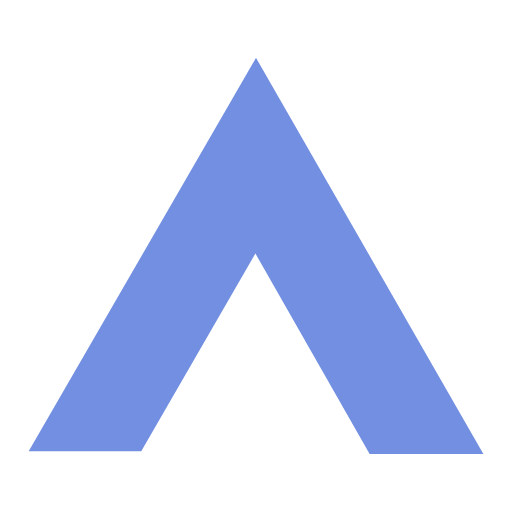
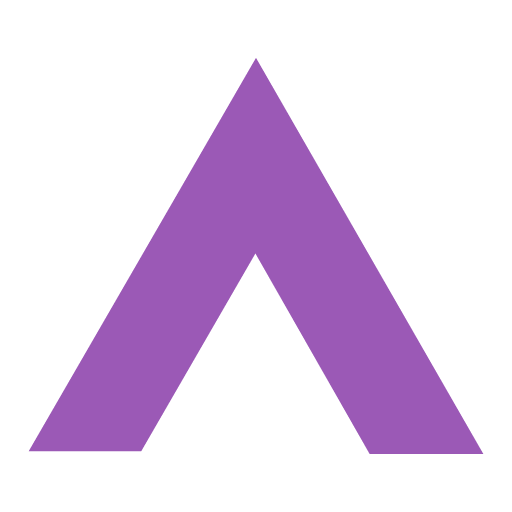
Color change

Changed region(s): [[0.0625, 0.125, 0.9375, 0.9062]]

diff --git a/app/page/start.htm b/app/page/start.htm
@@ -3,27 +3,17 @@
     <div class="page" style="overflow-x: hidden;">
         <div class="navbar" id="navbar">
             <input type="file" id="avatarpick" hidden onchange="getTumb()" accept="image/*">
-            <div class="chip big" id="userchip">
+            <div class="chip" id="userchip">
+                <div class="username" id="username">Nombre del profe</div>
                 <div class="img" id="userchipimg"></div>
-                <div class="username" id="username"></div>
                 <div class="status" id="userstatus"></div>
                 <div class="rippleJS"></div>
             </div>
-            <button id="inspwa" style="float: right;" onclick="openPg('settings');"><svg style="width: 24px;"
-                    viewBox="0 0 24 24">
-                    <path
-                        d="M12,15.5A3.5,3.5 0 0,1 8.5,12A3.5,3.5 0 0,1 12,8.5A3.5,3.5 0 0,1 15.5,12A3.5,3.5 0 0,1 12,15.5M19.43,12.97C19.47,12.65 19.5,12.33 19.5,12C19.5,11.67 19.47,11.34 19.43,11L21.54,9.37C21.73,9.22 21.78,8.95 21.66,8.73L19.66,5.27C19.54,5.05 19.27,4.96 19.05,5.05L16.56,6.05C16.04,5.66 15.5,5.32 14.87,5.07L14.5,2.42C14.46,2.18 14.25,2 14,2H10C9.75,2 9.54,2.18 9.5,2.42L9.13,5.07C8.5,5.32 7.96,5.66 7.44,6.05L4.95,5.05C4.73,4.96 4.46,5.05 4.34,5.27L2.34,8.73C2.21,8.95 2.27,9.22 2.46,9.37L4.57,11C4.53,11.34 4.5,11.67 4.5,12C4.5,12.33 4.53,12.65 4.57,12.97L2.46,14.63C2.27,14.78 2.21,15.05 2.34,15.27L4.34,18.73C4.46,18.95 4.73,19.03 4.95,18.95L7.44,17.94C7.96,18.34 8.5,18.68 9.13,18.93L9.5,21.58C9.54,21.82 9.75,22 10,22H14C14.25,22 14.46,21.82 14.5,21.58L14.87,18.93C15.5,18.67 16.04,18.34 16.56,17.94L19.05,18.95C19.27,19.03 19.54,18.95 19.66,18.73L21.66,15.27C21.78,15.05 21.73,14.78 21.54,14.63L19.43,12.97Z" />
-                </svg>
-                <div class="rippleJS"></div>
-            </button>
+           
         </div>
 
-        <div class="circle"></div>
-
         <div class="comentariom" id="comentme"></div>
-        <button class="btnmarcar">
-            MARCAR<div class="rippleJS"></div>
-        </button>
+      
         <div class="card" id="installpwa" style="margin-top: 24px; margin-bottom: -10px;height: 80px; display:none">
             <p class="tit-sub">Qué esperas para <br> <span class="high">instalar la app?</span> </p>
             <button onclick="installapp()" class="round" style="right: 16px;top:calc(50% - 20px);">Instalar<div
@@ -32,23 +22,19 @@
 
         <div class="card menu" style="margin-top: 24px;">
             <ul class="menu_principal">
-                <li onclick="openPg('reporte-me');">Reporte</li>
+                <li onclick="openPg('aula-display');">Mis aulas</li>
                 <hr>
-                <li onclick="openPg('task-list');">Proyectos </li>
+                <li onclick="openPg('alm-display');">Alumnos</li>
                 <hr>
-                <li onclick="openPg('news-list');">Notificaciones </li>
+                <li onclick="openPg('inst-display');">Instituciones</li>
                 <hr>
-                <li onclick="openPg('user-list');">Usuarios </li>
+                <li onclick="openPg('stats-one');">Estadisticas</li>
                 <hr>
-                <li onclick="openPg('horario-list');">Horarios</li>
+                <li onclick="openPg('settings');">Configuraciones</li>
+                <hr>
+                <li onclick="openPg('settings-about');">Acerca de..</li>
             </ul>
         </div>
-
-        <div class="footer">Created with ❤ by Nahuel</div>
-        <br><br><br><br><br>
-        Noticias..
-        <br><br><br><br><br>
-        <br><br><br><br><br>
         
     </div>
 </div>
@@ -91,19 +77,18 @@
         }
     }
 
-    // EVENTS //
+    // EVENTOS //
 
     $('.btnmarcar').on('click', async (e) => {
 
-        n = d.getTime().toString();
-        app.notif(n.slice(n.length - 6))
+
 
         /*
                 navigator.serviceWorker.ready.then(function (registration) {
-                    registration.showNotification('Meraki', {
-                        body: 'tu numero es ' + n.slice(n.length - 6),
-                        // image: './lib/img/bg/bg-1.jpg',
-                        icon: './lib/img/Recurso512.png',
+                    registration.showNotification('AULA', {
+                        body: 'notificacion',
+                        // image: './lib/img/sssss',
+                        icon: './lib/img/ssssss',
                         badge: './'
                     });
                 });*/
@@ -161,5 +146,5 @@
                 }
             });
     }
-
+//http://127.0.0.1:5501/app/index.html?cGFnZS9zdGFydC5odG0=
 </script>

diff --git a/app/style.css b/app/style.css
@@ -3,12 +3,12 @@ html {
     --color-n: #ebebeb;
     --contrast-n: #333333;
     --back-n: #3b3b3b;
-    --color-pri-n: #728FE1;
+    --color-pri-n: #9B59B6;
 }
 
 .color-day {
-    --color-pri-dark: #728FE1;
-    --color-pri: #728FE1;
+    --color-pri-dark: #9B59B6;
+    --color-pri: #9B59B6;
     --color: #343434;
     --gray: #595959;
     --contrast: #fff;
@@ -79,7 +79,8 @@ body {
     border-radius: 8px;
     top: 5%;
     margin-bottom: 16px;
-    border: solid 1px #00000040;
+    border: solid 1px #0000000a;
+    filter: drop-shadow(0px 3px 6px rgba(0, 0, 0, 0.20));
 }
 
 .content {
@@ -93,8 +94,8 @@ body {
 .page .card.menu {
     height: auto;
     padding: 18px 0 18px 0;
-    filter: none !important;
-    border: solid 1px #00000040;
+    border: solid 1px #0000001a;
+    filter: drop-shadow(0px 3px 6px rgba(0, 0, 0, 0.116));
 } 
 
 .page .card.menu.grande {
@@ -116,7 +117,7 @@ body {
     height: 56px;
     z-index: 2;
     box-shadow: none;
-    background-color: var(--color-pri, var(--color-pri-n));
+    background-color: var(--back, var(--back-n));
     transition: var(--transition);
     transition: height 150ms, background-color 0ms;
 }
@@ -130,7 +131,7 @@ body {
     top: 15px;
     left: 56px;
     transform: none;
-    color: #fff;
+    color: var(--color-pri-n);
     text-align: left;
     font-weight: 100;
     font-size: 20px;
@@ -166,26 +167,13 @@ body {
     padding: 8px;
     border-radius: 50px;
     padding-top: 8px;
-    fill: #fff;
-    color: #fff;
+    fill: var(--color-pri-n);
+    color: var(--color-pri-n);
     outline: none;
     margin: 6px 0 0 8px;
     z-index: -1;
 }
 
-.circle {
-    position: absolute;
-    top: -85px;
-    left: 50%;
-    transform: translate(-50%, 0);
-    height: 287px;
-    width: 116%;
-    background-color: var(--color-pri, var(--color-pri-n));
-    border-radius: 50%;
-    z-index: 0;
-}
-
-/*LOGIN PAGE*/
 
 /* USER INFO CHIP */
 
@@ -196,32 +184,27 @@ body {
     min-width: 44px;
     border-radius: 22px;
     top: 6px;
-    left: 8px;
+    right: 20px;
     transition: var(--transition);
     overflow: hidden;
     user-select: none;
     font-weight: 100;
     transform: none;
-    color: #fff;
-}
-
-.navbar .chip.big {
-    transform: scale(1.2) translate(40px, 40px) !important;
+    color: var(--color);
+    background-color:var(--back);
+    filter: drop-shadow(0px 3px 3px rgba(0, 0, 0, 0.062));
 }
 
 .navbar .chip .username {
     position: relative;
     text-align: center;
-    margin-left: 48px;
-    margin-top: -27px;
-    margin-right: 12px;
-    font-size: 14px;
+    margin-left: 12px;
+    margin-top: 13px;
+    margin-right: 48px;
+    font-size: 16px;
     transition: var(--transition);
 }
 
-.navbar .chip.big .username {
-    transform: translate(0, -6px);
-}
 
 .navbar .chip .status {
     position: relative;
@@ -232,19 +215,18 @@ body {
     opacity: 0;
 }
 
-.navbar .chip.big .status {
-    opacity: 1;
-}
 
 .navbar .chip .img {
     background-color: rgba(0, 0, 0, 0.20);
     background-size: cover;
     background-position: center;
-    width: 40px;
-    height: 40px;
+    width: 38px;
+    height: 38px;
     border-radius: 50%;
-    margin-top: 2px;
-    margin-left: 2px;
+    position: absolute;
+    right: 3px;
+    top: 3px;
+    
 }
 
 /*CONTROLS*/
@@ -583,7 +565,7 @@ position: relative;
 }
 
 .menu_principal hr{
-    border: #7e7e7e44 0.5px solid;
+    border: #7e7e7e25 0.5px solid;
     margin: 10px 20px 10px 20px;
 }
 

diff --git a/app/page/aula-display.htm b/app/page/aula-display.htm
@@ -1,0 +1,44 @@
+<div class="page">
+    <div class="navbar big">
+        <button class="backbtn" style="float: left;" onclick="history.back();window.navigator.vibrate(50)"><svg
+                style="width: 24px;" viewBox="0 0 24 24">
+                <path d="M20,11V13H8L13.5,18.5L12.08,19.92L4.16,12L12.08,4.08L13.5,5.5L8,11H20Z" />
+            </svg>
+            <div class="rippleJS"></div>
+        </button>
+        <div class="title">Opciones</div>
+    </div>
+    <div class="card menu grande">
+        <ul class="ulmenuop">
+            <li onclick="installapp()" id="liAppInst" style="display: none;"> <div class="rippleJS"></div>Instalar App</li>
+            <li onclick="openPg('settings-theme');">
+                <div class="rippleJS"></div>Diseño
+            </li>
+            <li onclick="openPg('settings-sync');">
+                <div class="rippleJS"></div>Mis datos
+            </li>
+            <li onclick="openPg('settings-tickets');">
+                <div class="rippleJS"></div>Notificaciones
+            </li>
+            <li onclick="window.navigator.vibrate(50);app.login.out()">
+                <div class="rippleJS"></div>Cerrar sesión
+            </li>
+        </ul>
+    </div>
+    <script>
+        $(() => {
+            if (installable) {
+                $('#liAppInst')[0].style.display = 'block';
+            }
+
+            var thisPage = $('#settings');
+            thisPage[0].onscroll = () => {
+                if (thisPage[0].scrollTop <= 45) {
+                    thisPage.find('.navbar').addClass("big");
+                } else {
+                    thisPage.find('.navbar').removeClass("big");
+                }
+            };
+        })
+    </script>
+</div>

diff --git a/app/page/settings.htm b/app/page/settings.htm
@@ -11,17 +11,14 @@
     <div class="card menu grande">
         <ul class="ulmenuop">
             <li onclick="installapp()" id="liAppInst" style="display: none;"> <div class="rippleJS"></div>Instalar App</li>
-            <li onclick="openPg('settings-diseno');">
+            <li onclick="openPg('settings-theme');">
                 <div class="rippleJS"></div>Diseño
             </li>
             <li onclick="openPg('settings-sync');">
-                <div class="rippleJS"></div>Sincronización
-            </li>
-            <li onclick="openPg('settings-about');">
-                <div class="rippleJS"></div>Sobre MERAKI
+                <div class="rippleJS"></div>Mis datos
             </li>
             <li onclick="openPg('settings-tickets');">
-                <div class="rippleJS"></div>Tickets
+                <div class="rippleJS"></div>Notificaciones
             </li>
             <li onclick="window.navigator.vibrate(50);app.login.out()">
                 <div class="rippleJS"></div>Cerrar sesión

diff --git a/style.css b/style.css
@@ -1,7 +1,7 @@
 body {
     color: white;
     margin: 0;
-    background-color: #728FE1;
+    background-color: #9B59B6;
     overflow: hidden;
     overflow-y: auto;
     font-family: NHFont;
@@ -15,7 +15,7 @@ body {
     top: 0;
     z-index: 3;
     box-shadow: none;
-    background-color: #728FE1;
+    background-color: #9B59B6;
     transition: ease-in 150ms;
 }
 
@@ -85,7 +85,7 @@ button {
 
 button.alm {
     margin-right: 10px;
-    color: #728FE1;
+    color: #9B59B6;
     border: #fff 1px solid;
     background-color: #fff;
 }
@@ -94,7 +94,7 @@ button.prf {
     margin-left: 10px;
     color: rgb(255, 255, 255);
     border: #fff 1px solid;
-    background-color: #728FE1;
+    background-color: #9B59B6;
 }
 
 @media(max-width:460px) {
